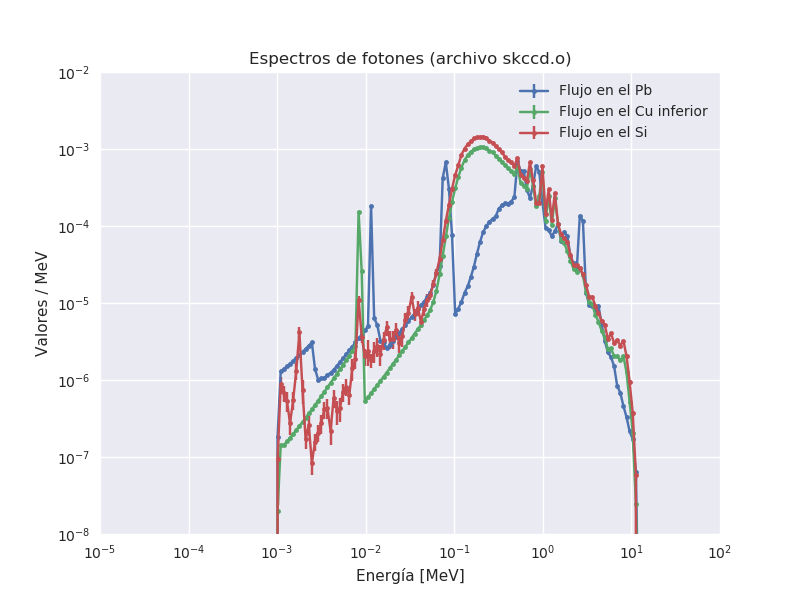
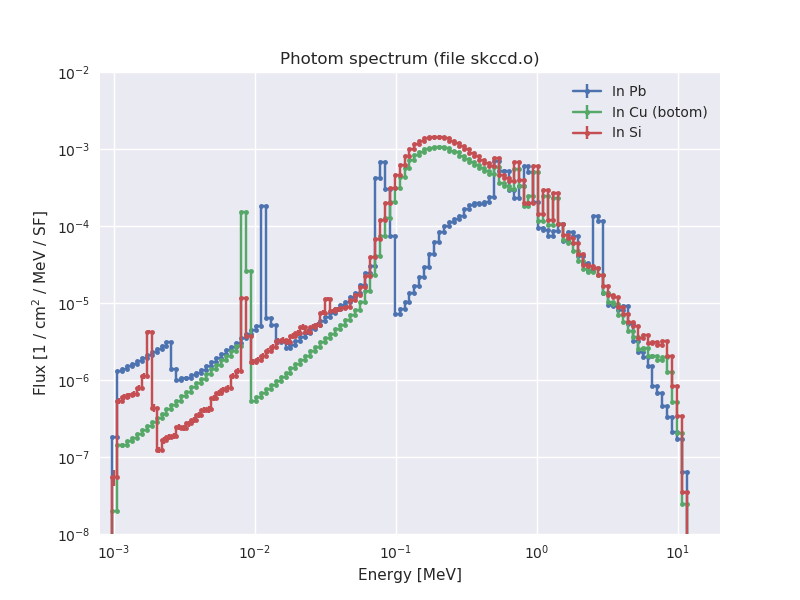
Nuevos graficos

diff --git a/exp_skccd_UnThinned/mcnp/grafica_espectros_fotones.py b/exp_skccd_UnThinned/mcnp/grafica_espectros_fotones.py
@@ -19,9 +19,9 @@ if __name__ == '__main__':
 
     archivo = 'skccd.o'
     labels = [
-              'Flujo en el Pb',
-              'Flujo en el Cu inferior',
-              'Flujo en el Si',
+              'In Pb',
+              'In Cu (botom)',
+              'In Si',
               ]
     tallies = [
                '514',
@@ -40,15 +40,16 @@ if __name__ == '__main__':
         # Normalizo con ancho del bin
         val = val / bin_width
         std_val = std_val / bin_width
-        ax.errorbar(eng, val, yerr=std_val, fmt='.-', label=label)
-        ax.set_xlabel('Energía [MeV]')
-        ax.set_ylabel('Valores / MeV')
+        ax.errorbar(eng, val, yerr=std_val, fmt='.-', label=label,
+                    drawstyle='steps-mid')
+        ax.set_xlabel('Energy [MeV]')
+        ax.set_ylabel('Flux [1 / cm$^2$ / MeV / SF]')
         ax.set_xscale('log')
         ax.set_yscale('log')
-        ax.set_xlim(1e-5, 1e2)
+        ax.set_xlim(8e-4, 2e1)
         ax.set_ylim(1e-8, 1e-2)
 
-    ax.set_title('Espectros de fotones (archivo ' + archivo + ')')
+    ax.set_title('Photom spectrum (file ' + archivo + ')')
     ax.legend()
     nom_graf = 'espectros_fotones_'
     nom_graf += archivo.split('.')[0].split('_')[-1] + '.png'

diff --git a/exp_skccd_UnThinned/mcnp/grafica_espectros_neutrones.py b/exp_skccd_UnThinned/mcnp/grafica_espectros_neutrones.py
@@ -19,9 +19,9 @@ if __name__ == '__main__':
 
     archivo = 'skccd.o'
     labels = [
-              'Flujo en el Pb',
-              'Flujo en el Cu inferior',
-              'Flujo en el Si',
+              'In Pb',
+              'In Cu (bottom)',
+              'In Si',
               ]
     tallies = [
                '14',
@@ -40,15 +40,16 @@ if __name__ == '__main__':
         # Normalizo con ancho del bin
         val = val / bin_width
         std_val = std_val / bin_width
-        ax.errorbar(eng, val, yerr=std_val, fmt='.-', label=label)
-        ax.set_xlabel('Energía [MeV]')
-        ax.set_ylabel('Valores / MeV')
+        ax.errorbar(eng, val, yerr=std_val, fmt='.-', label=label,
+                    drawstyle='steps-mid')
+        ax.set_xlabel('Energy [MeV]')
+        ax.set_ylabel('Flux [1/cm$^2$/MeV/SF')
         ax.set_xscale('log')
         ax.set_yscale('log')
-        ax.set_xlim(1e-5, 1e2)
+        ax.set_xlim(5e-6, 1e2)
         ax.set_ylim(1e-8, 1e-2)
 
-    ax.set_title('Espectros de neutrones (archivo ' + archivo + ')')
+    ax.set_title('Neutron spectrum (file ' + archivo + ')')
     ax.legend()
     nom_graf = 'espectros_neutrones_'
     nom_graf += archivo.split('.')[0].split('_')[-1] + '.png'

diff --git a/exp_skccd_UnThinned/mcnp/grafica_deposicion.py b/exp_skccd_UnThinned/mcnp/grafica_deposicion.py
@@ -17,7 +17,7 @@ sns.set()
 
 if __name__ == '__main__':
 
-    archivo = 'skccd.o'
+    archivo = 'skccd_pCf.o'
     labels = [
               'Neutrons',
               'Photons',
